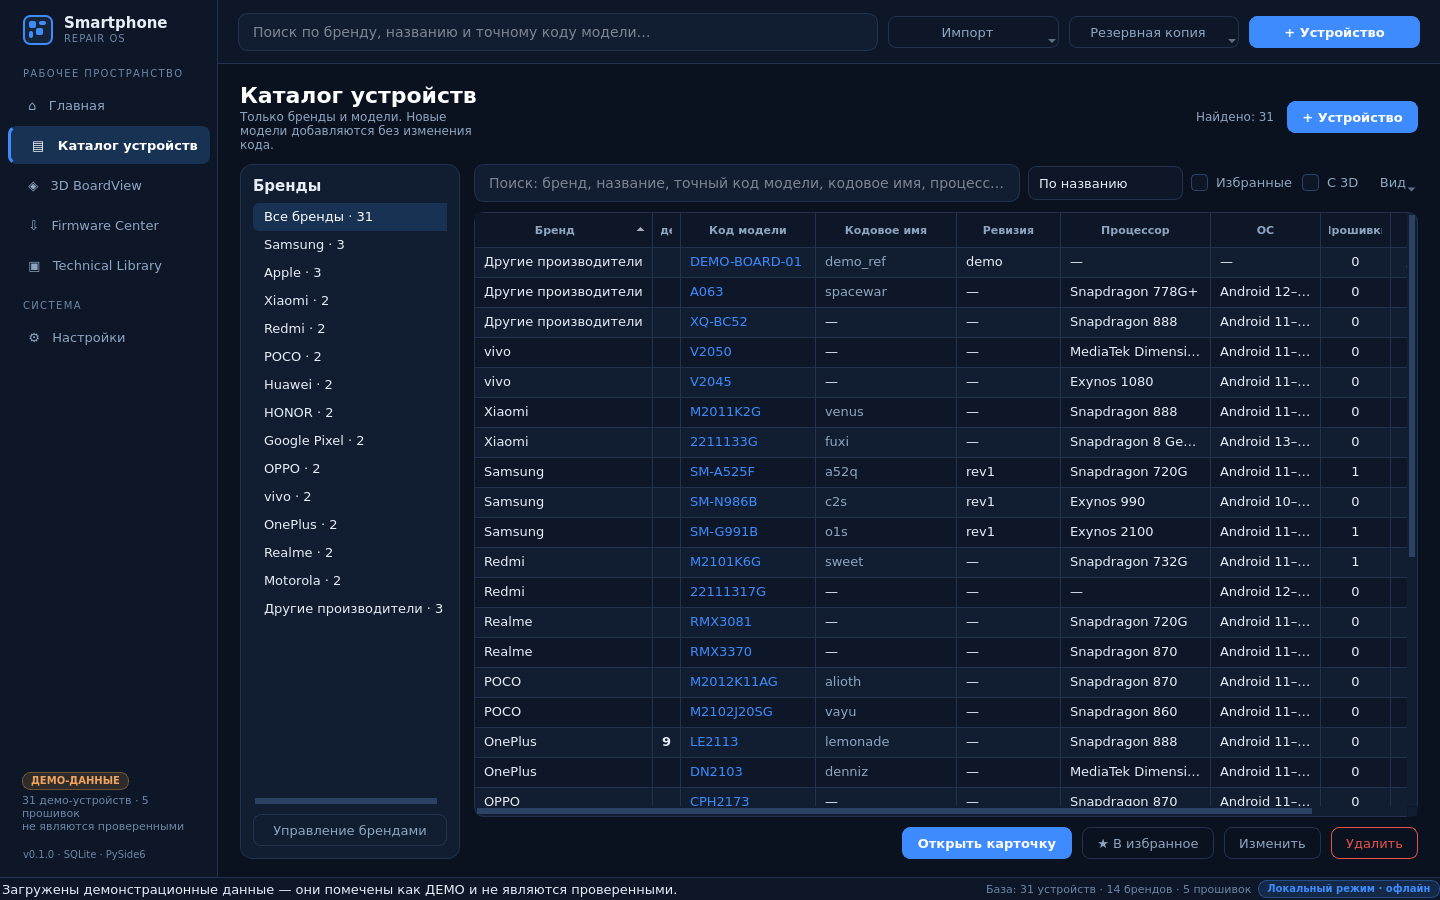
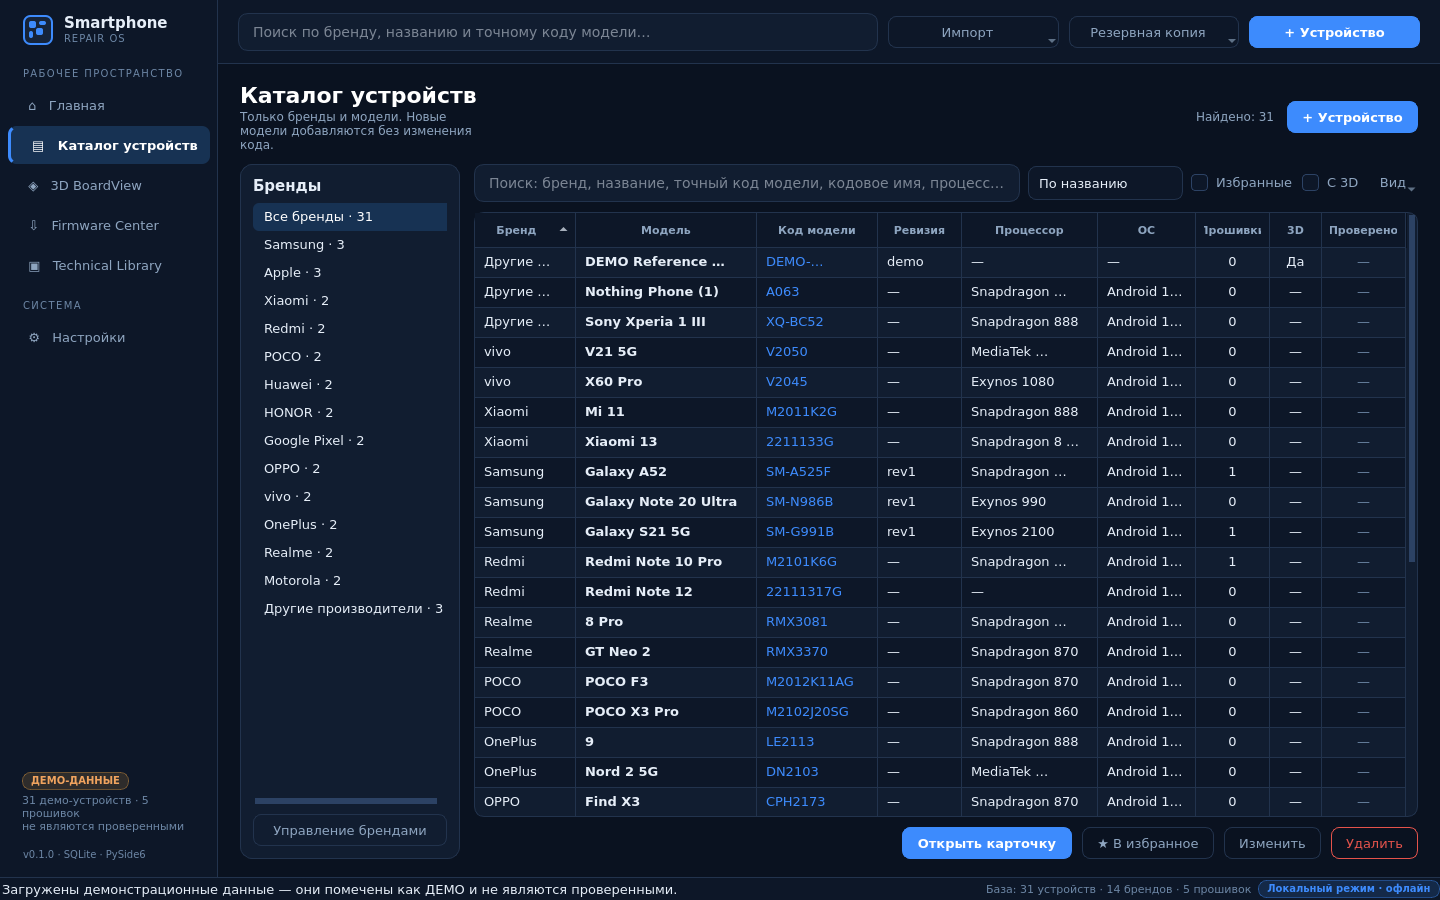
docs: ссылки на установщик, разбор сбоя сборки и обновлённые скриншоты
* README: раздел «Скачать» с прямыми ссылками на setup.exe и portable.zip.
* CHANGELOG: 0.1.0 с перечнем исправлений сборки.
* docs/BUILD_WINDOWS: публикация релиза, SPECPATH, cp1252, артефакт build-logs.
* docs/screenshots: перерисованы с исправленными таблицами.

Changed region(s): [[0.3438, 0.2489, 0.9062, 0.9022], [0.8438, 0.2489, 0.9688, 0.28], [0.6875, 0.2489, 0.8125, 0.28]]

diff --git a/README.md b/README.md
@@ -7,6 +7,17 @@
 > **Статус:** MVP, версия 0.1.0. Все демонстрационные записи помечены **ДЕМО** и не являются
 > проверенными прошивками, схемами или 3D-моделями реальных устройств.
 
+## Скачать (Windows 10/11, x64)
+
+| Файл | Размер | Что это |
+|---|---|---|
+| [SmartphoneRepairOS-0.1.0-setup.exe](https://github.com/Klavish777/test/releases/download/v0.1.0/SmartphoneRepairOS-0.1.0-setup.exe) | 36 МБ | Установщик (Inno Setup), права администратора не нужны |
+| [SmartphoneRepairOS-0.1.0-portable.zip](https://github.com/Klavish777/test/releases/download/v0.1.0/SmartphoneRepairOS-0.1.0-portable.zip) | 52 МБ | Портативная сборка: распаковать и запустить `SmartphoneRepairOS.exe` |
+
+Страница релиза со всеми файлами: <https://github.com/Klavish777/test/releases/tag/v0.1.0>
+
+Приложение работает офлайн: база, каталог и материалы хранятся на компьютере.
+
 ![Главная страница](docs/screenshots/01_home.png)
 
 ---
@@ -22,7 +33,7 @@
 | **Technical Library** | PDF/схемы/BoardView/фото/инструкции/заметки, привязка к модели, категории узлов, теги, статусы достоверности и дата проверки, ссылки на источники, права на использование |
 | **Данные** | SQLite с миграциями и индексами, импорт CSV/JSON с предварительной проверкой, экспорт, резервное копирование ZIP (манифест + SHA-256) и восстановление со страховочной копией |
 | **Безопасность** | валидация ввода, защита от path traversal и zip-бомб, контрольные суммы, подтверждение опасных операций, шифрование токенов внешних сервисов (при наличии `cryptography`) |
-| **Прочее** | тёмная тема, русский интерфейс (каталоги переводов для других языков), логирование с ротацией, 73 автотеста, сборка EXE + установщик через GitHub Actions |
+| **Прочее** | тёмная тема, русский интерфейс (каталоги переводов для других языков), логирование с ротацией, 79 автотестов, сборка EXE + установщик через GitHub Actions |
 
 ### Скриншоты
 

diff --git a/CHANGELOG.md b/CHANGELOG.md
@@ -1,6 +1,30 @@
 # Изменения
 
-## 0.1.0 — MVP (первый этап)
+## 0.1.0 — MVP
+
+**Первый публичный релиз:** установщик и портативная сборка для Windows 10/11
+опубликованы в [Releases](https://github.com/Klavish777/test/releases/tag/v0.1.0).
+
+### Исправлено после первого прогона сборки
+
+- **Сборка Windows падала** (`script '.../main.py' not found`): в
+  `build/smartphone_repair_os.spec` корень проекта вычислялся как
+  `Path(SPECPATH).parent`, хотя `SPECPATH` — это каталог со spec-файлом.
+- **Кириллица в перенаправленном выводе на Windows** (cp1252) вызывала
+  `UnicodeEncodeError`; добавлен `configure_console()` — UTF-8 в `stdout`/`stderr`
+  и подмена отсутствующих потоков для сборки без консоли.
+- `--check` больше не требует графической подсистемы: базу можно проверить в CI,
+  на сервере и в собранном EXE без экрана.
+- Имя установщика ломалось, если версия приходила из имени ветки (`refs/...` с `/`):
+  версия санитайзится, в CI берётся из `repair_os/version.py`.
+- Скрипт сборки: полный лог шагов в `build/logs`, хвост лога и аннотация `::error::`
+  при сбое, обязательная проверка установщика (`-RequireInstaller`), дымовой запуск
+  собранного EXE, портативный ZIP.
+- **Таблицы каталога, прошивок и библиотеки больше не обрезают столбцы:**
+  ширины считаются от содержимого (`FittedTableView`), второстепенные колонки
+  скрываются по приоритету при нехватке места.
+
+### Содержимое первого этапа
 
 ### Добавлено
 

diff --git a/docs/BUILD_WINDOWS.md b/docs/BUILD_WINDOWS.md
@@ -84,7 +84,18 @@ signtool sign /f cert.pfx /p <пароль> /tr http://timestamp.digicert.com /t
 
 `cert.pfx` и пароль **не храните в репозитории**; используйте секреты CI.
 
-## 6. Типовые проблемы
+## 6. Публикация релиза
+
+```powershell
+git tag v0.1.0
+git push origin v0.1.0
+```
+
+Workflow `CI · тесты и сборка Windows` на теге `v*` соберёт EXE, установщик и
+портативный ZIP и приложит их к GitHub Release. Логи каждого шага сборки лежат
+в `build\logs` и выгружаются артефактом `build-logs` даже при ошибке.
+
+## 7. Типовые проблемы
 
 | Симптом | Решение |
 |---|---|
@@ -94,3 +105,6 @@ signtool sign /f cert.pfx /p <пароль> /tr http://timestamp.digicert.com /t
 | Антивирус блокирует EXE PyInstaller | подпишите код или добавьте в исключения для теста |
 | Приложение не запускается, окно пустое | запустите `SmartphoneRepairOS.exe --check` из консоли, посмотрите `logs\repair_os.log` |
 | Сборка падает на тестах UI | проверьте, что `QT_QPA_PLATFORM=offscreen` не конфликтует с локальными настройками Qt |
+| `script '...\main.py' not found` | в `build/smartphone_repair_os.spec` корень проекта должен вычисляться от **каталога** spec-файла: `SPECPATH` — это каталог, а не файл |
+| `UnicodeEncodeError: 'charmap' codec ...` | Windows использует cp1252 для перенаправленного вывода; скрипт сборки выставляет `PYTHONUTF8=1`, а приложение — `configure_console()` |
+| Нужно понять, почему упал CI | скачайте артефакт `build-logs` (файлы `build/logs/*.log`): там полный вывод pip, pytest, PyInstaller, ISCC и дымового запуска EXE |
